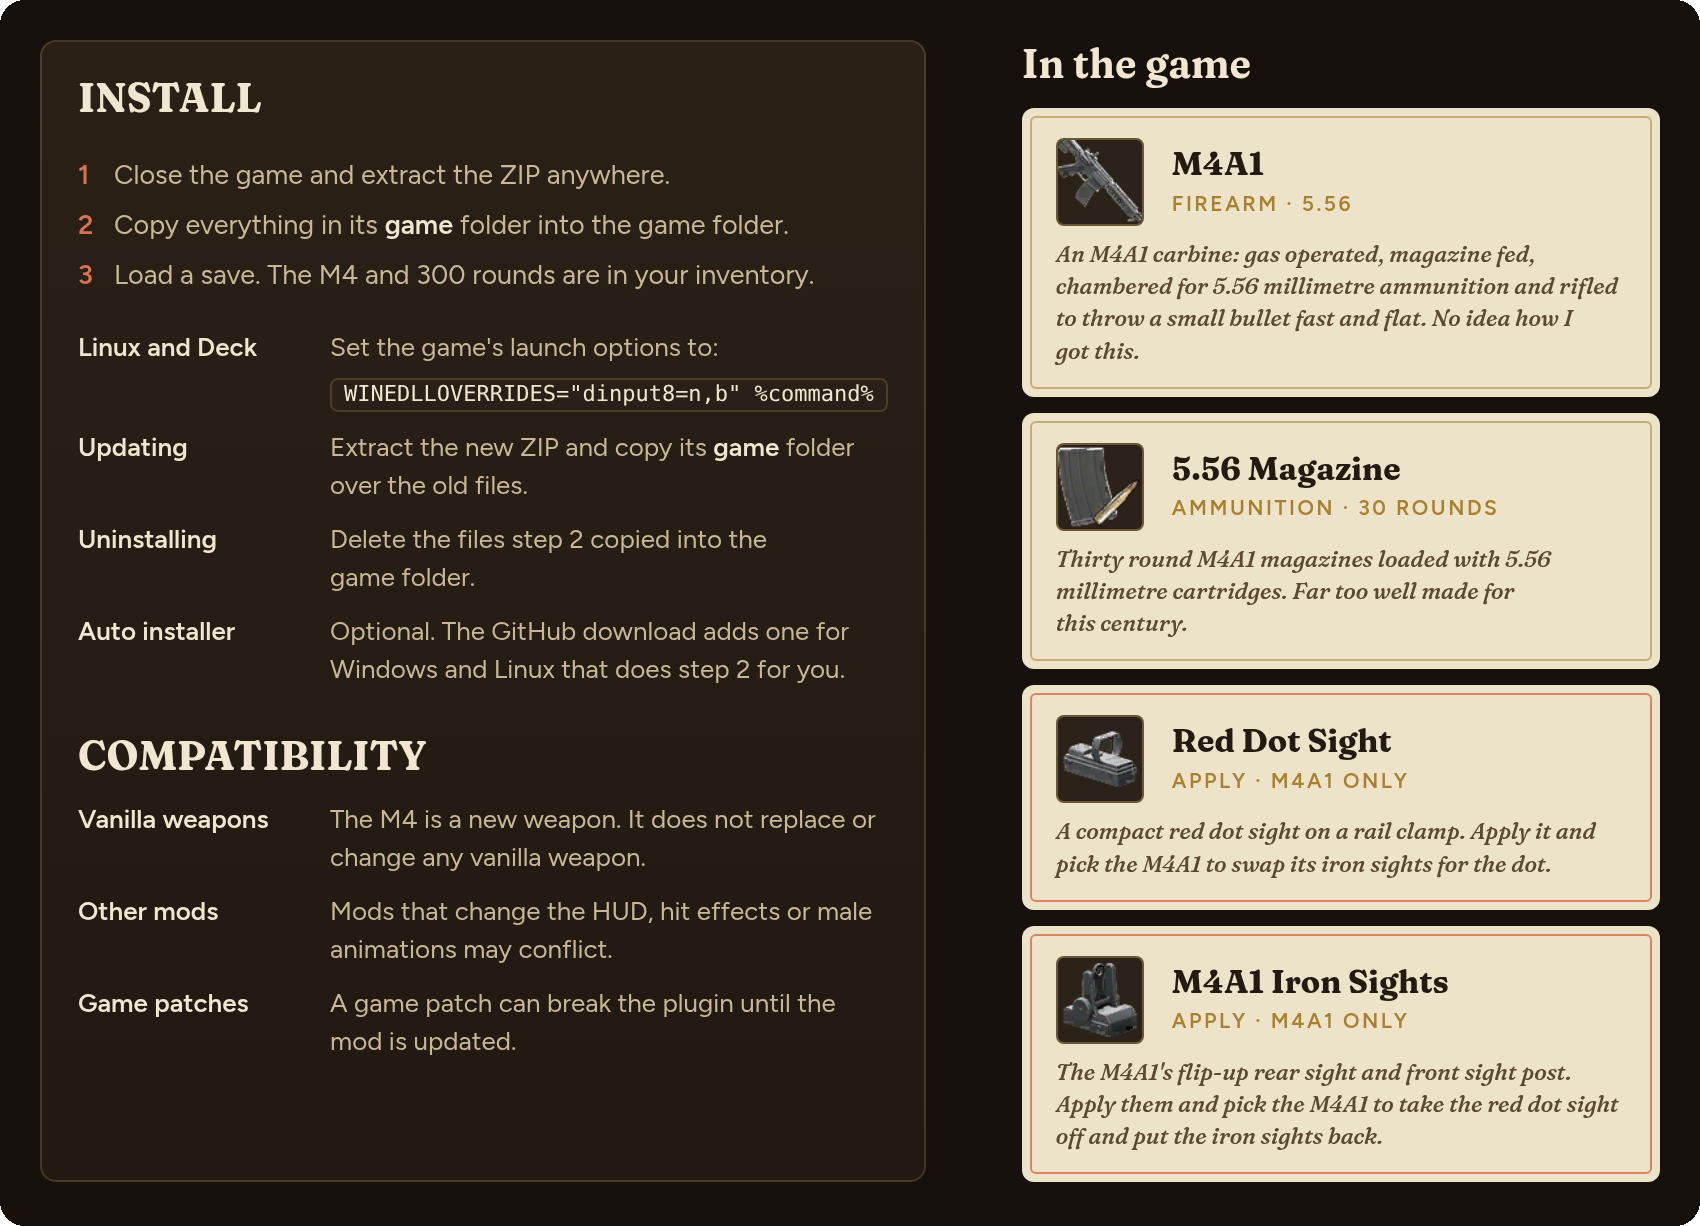
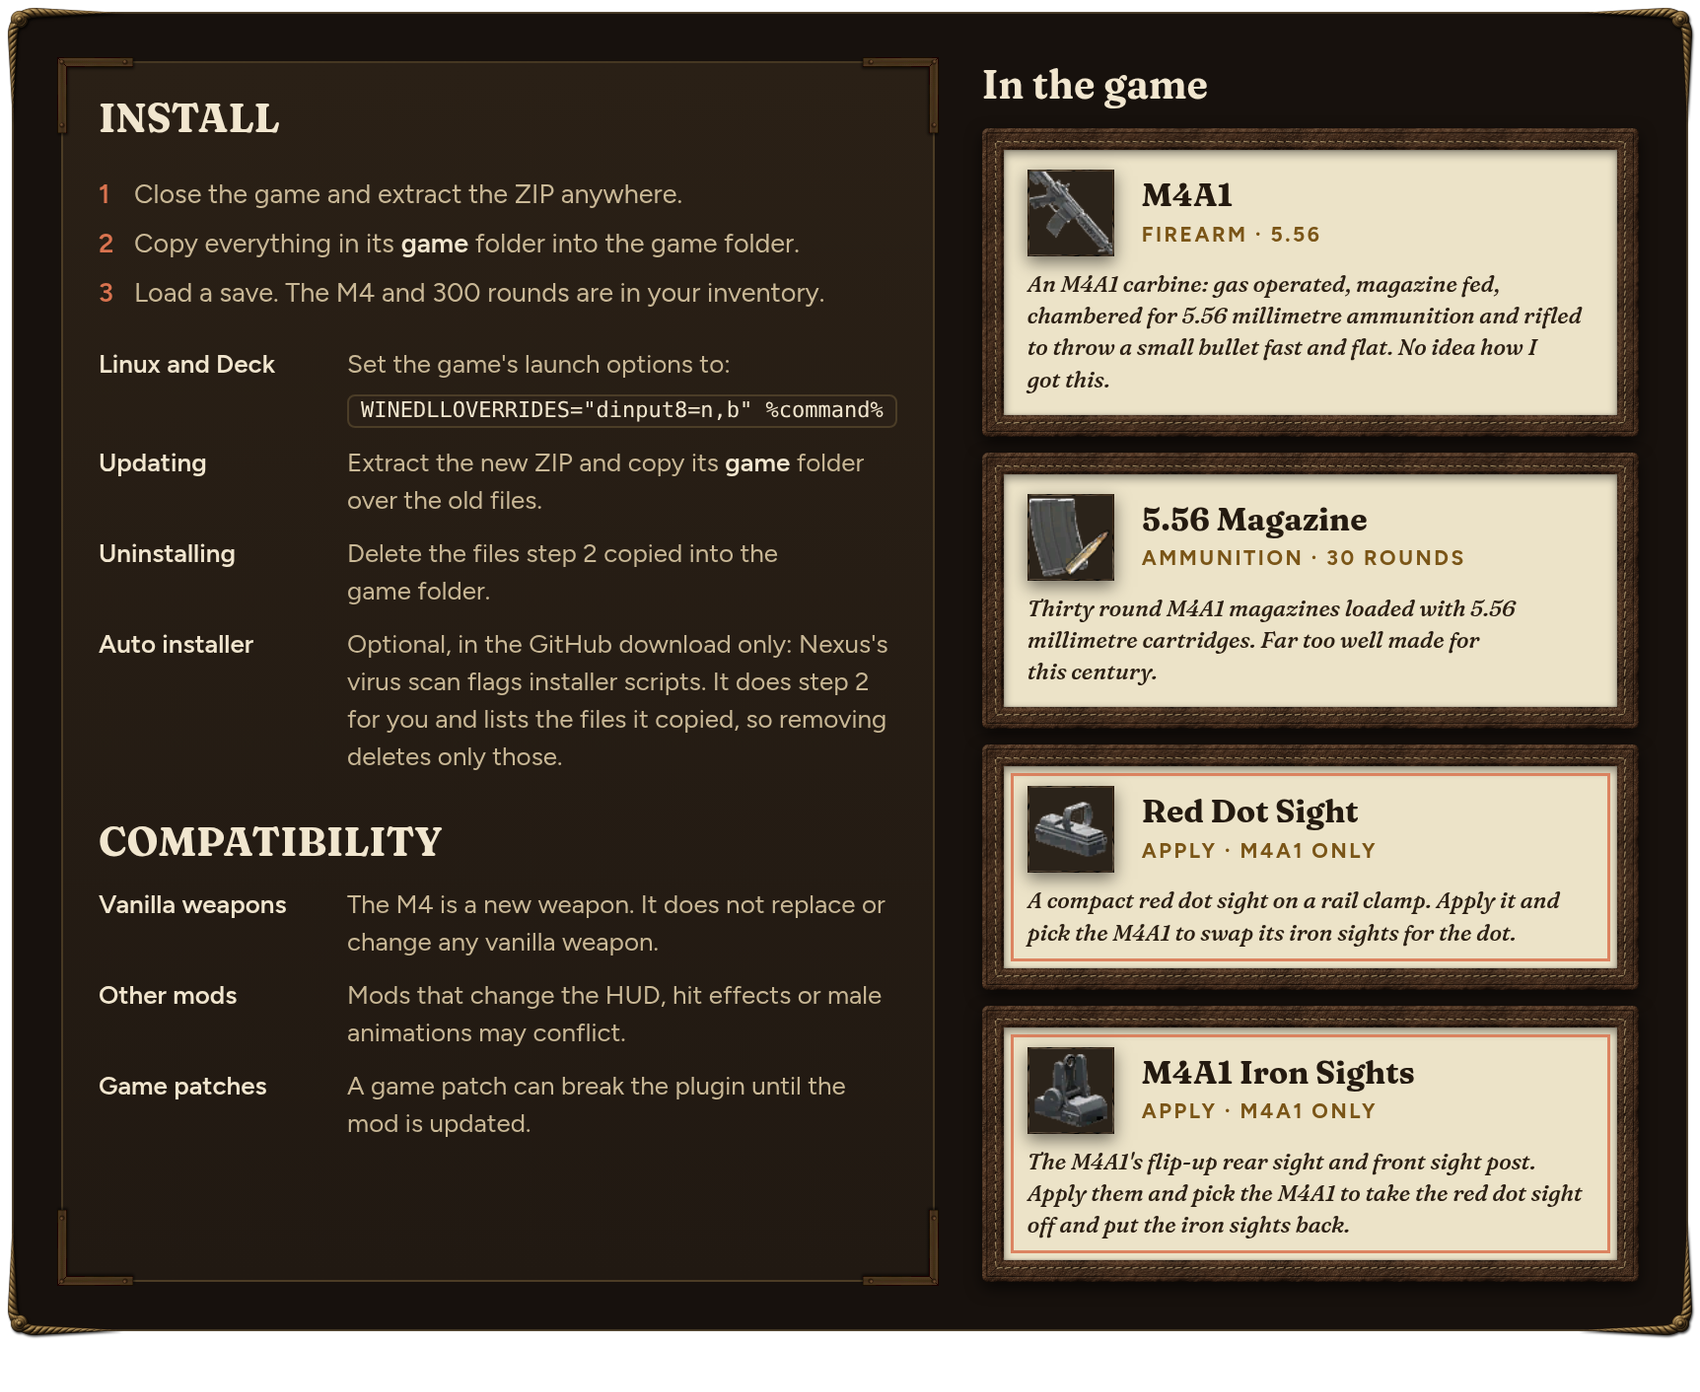
docs: New page design: bronze rope corners, oak picture frames and leather-framed cards

diff --git a/README.md b/README.md
@@ -28,6 +28,11 @@ m4_give irons
 
 Unzip it and run `install_windows.bat` on Windows or `install_linux.sh` on Linux.
 Or install it by hand with the steps above.
+
+The installers find the game through Steam, copy the zip's `game` folder into it and list what they copied in `m_carbine_install.txt`.
+Run one again to update or remove the mod; removing deletes only the files on that list.
+Read them first in [`install/`](install/).
+The Nexus download leaves them out because Nexus's virus scan flags them.
 The mod page is on [Nexus Mods](https://www.nexusmods.com/kingdomcomedeliverance2/mods/3886).
 
 ## What is here
